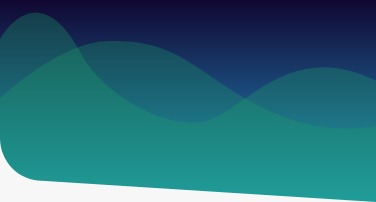
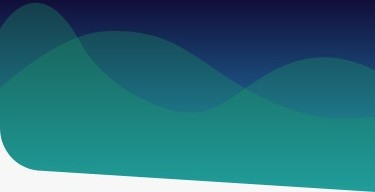
splash screen change

diff --git a/src/screens/ForgotPassword.js b/src/screens/ForgotPassword.js
@@ -15,18 +15,15 @@ import {
   Title,
   useTheme,
 } from 'react-native-paper';
-import Icon from 'react-native-vector-icons/FontAwesome';
-import Ic from 'react-native-vector-icons/MaterialCommunityIcons';
+import Icon from 'react-native-vector-icons/MaterialCommunityIcons';
 import {ProjectLogo} from '../utils/ContentConstant';
 import LinearGradient from 'react-native-linear-gradient';
 import ButtonFilled from '../components/ButtonFilled';
 
-const Signup = ({navigation}) => {
+const ForgotPassword = ({navigation}) => {
   const {colors} = useTheme();
 
-  const [state, setState] = useState({
-    passwordVisible: false,
-  });
+  const [state, setState] = useState({});
 
   const [formValues, setformValues] = useState({
     email: '',
@@ -41,33 +38,20 @@ const Signup = ({navigation}) => {
         <TouchableOpacity
           style={styles.rowView}
           onPress={() => navigation.pop()}>
-          <Ic name="keyboard-backspace" color="white" size={32} />
+          <Icon name="keyboard-backspace" color="white" size={32} />
           <Subheading style={styles.title}> Back</Subheading>
         </TouchableOpacity>
       </View>
       <ScrollView style={styles.view}>
         <Image resizeMode="contain" style={{width: 240}} source={ProjectLogo} />
-        <Title style={{color: '#1DA069'}}>New Customer,</Title>
+        <Title style={{color: '#1DA069'}}>
+          Reset your Medusa Psychic Academy Password
+        </Title>
         <Subheading style={[styles.textGrey, {marginBottom: 20}]}>
-          Sign up to manage your accounts
+          Submit your email address and we'll send you a link to reset your
+          password
         </Subheading>
-        <Subheading style={styles.bottomRow}>
-          Connect with Social Networks
-        </Subheading>
-        <View style={styles.socialIcons}>
-          <TouchableOpacity onPress={() => {}}>
-            <Icon style={styles.icon} name="facebook-square" size={30} />
-          </TouchableOpacity>
-          <TouchableOpacity onPress={() => {}}>
-            <Icon style={styles.icon} name="google" size={30} />
-          </TouchableOpacity>
-        </View>
-        <View style={styles.bottomRow}>
-          <Subheading style={styles.textGrey}>OR</Subheading>
-          <TouchableOpacity onPress={() => {}}>
-            <Subheading style={styles.textGrey}> Create an account</Subheading>
-          </TouchableOpacity>
-        </View>
+
         <TextInput
           style={styles.formControl}
           onChangeText={(email) =>
@@ -82,47 +66,11 @@ const Signup = ({navigation}) => {
         <HelperText type="error" visible={false}>
           {state.error}
         </HelperText>
-        <View style={{flexDirection: 'row'}}>
-          <TextInput
-            style={styles.formControl}
-            onChangeText={(password) =>
-              setformValues({
-                ...formValues,
-                password,
-              })
-            }
-            label="Pasword"
-            secureTextEntry={true}
-            value={formValues.password}
-          />
-          <TouchableOpacity
-            onPress={() => {
-              setState({...state, passwordVisible: true});
-              console.log('icon lcik');
-            }}>
-            <Icon
-              style={{position: 'absolute', zIndex: 300, right: 5, top: 25}}
-              name="eye-slash"
-              color="grey"
-              size={30}
-            />
-          </TouchableOpacity>
-        </View>
-        <HelperText type="error" visible={false}>
-          {state.error}
-        </HelperText>
         <TouchableOpacity style={styles.btn} onPress={() => {}}>
-          <ButtonFilled name="CREATE ACCOUNT" />
+          <ButtonFilled name="RESET PASSWORD" />
         </TouchableOpacity>
-        <Subheading
-          style={[styles.textGrey, {marginVertical: 10, fontSize: 14}]}>
-          You must be at least 18 years old to sign up for Medusa Psychic
-          Academy. By signing up you agree to the Privacy Policy and Terms of
-          Service
-        </Subheading>
-        <TouchableOpacity onPress={() => navigation.navigate('Login')}>
-          <Subheading style={styles.ac}>Already have an account?</Subheading>
-        </TouchableOpacity>
+        <TouchableOpacity
+          onPress={() => navigation.navigate('Login')}></TouchableOpacity>
       </ScrollView>
     </LinearGradient>
   );
@@ -183,4 +131,4 @@ const styles = StyleSheet.create({
   },
 });
 
-export default Signup;
+export default ForgotPassword;

diff --git a/src/screens/AllAdvisors.js b/src/screens/AllAdvisors.js
@@ -60,7 +60,11 @@ const AllAdvisors = ({navigation}) => {
           </TouchableOpacity>
         </Dialog>
       </Portal>
-      <Image style={styles.pattren} source={GRADIENT_PATTREN} />
+      <Image
+        resizeMode="stretch"
+        style={styles.pattren}
+        source={GRADIENT_PATTREN}
+      />
       <View style={styles.headerView}>
         <TouchableOpacity onPress={() => navigation.toggleDrawer()}>
           <Icon name="menu" color="white" size={32} />
@@ -267,7 +271,7 @@ const AllAdvisors = ({navigation}) => {
 const styles = StyleSheet.create({
   container: {
     flex: 1,
-    marginTop: 45,
+    marginTop: 70,
     paddingHorizontal: 25,
     backgroundColor: 'white',
   },
@@ -277,7 +281,7 @@ const styles = StyleSheet.create({
     position: 'absolute',
   },
   searchBar: {
-    marginTop: 60,
+    marginTop: 30,
     marginHorizontal: 25,
   },
   title: {

diff --git a/src/screens/Dashboard.js b/src/screens/Dashboard.js
@@ -56,7 +56,11 @@ const Dashboard = ({navigation}) => {
           </TouchableOpacity>
         </Dialog>
       </Portal>
-      <Image style={styles.pattren} source={GRADIENT_PATTREN} />
+      <Image
+        resizeMode="stretch"
+        style={styles.pattren}
+        source={GRADIENT_PATTREN}
+      />
       <View style={styles.headerView}>
         <TouchableOpacity onPress={() => navigation.toggleDrawer()}>
           <Icon name="menu" color="white" size={32} />
@@ -265,17 +269,16 @@ const Dashboard = ({navigation}) => {
 const styles = StyleSheet.create({
   container: {
     flex: 1,
-    marginTop: 45,
+    marginTop: 70,
     paddingHorizontal: 25,
     backgroundColor: 'white',
   },
   pattren: {
     width: '100%',
-    // height: 250,
     position: 'absolute',
   },
   searchBar: {
-    marginTop: 60,
+    marginTop: 30,
     marginHorizontal: 25,
   },
   title: {

diff --git a/src/navigation/AppNavigation.js b/src/navigation/AppNavigation.js
@@ -2,6 +2,7 @@ import React from 'react';
 import {createStackNavigator} from '@react-navigation/stack';
 import Login from '../screens/Login';
 import Signup from '../screens/Signup';
+import ForgotPassword from '../screens/ForgotPassword';
 import SideDrawer from './SideDrawer';
 
 const Stack = createStackNavigator();
@@ -18,6 +19,11 @@ const AppNavigation = (props) => {
         options={{header: () => null}}
         name="Signup"
         component={Signup}
+      />
+      <Stack.Screen
+        options={{header: () => null}}
+        name="ForgotPassword"
+        component={ForgotPassword}
       />
       <Stack.Screen
         options={{header: () => null}}

diff --git a/src/navigation/SideDrawer.js b/src/navigation/SideDrawer.js
@@ -2,6 +2,7 @@ import React from 'react';
 import {createDrawerNavigator} from '@react-navigation/drawer';
 import HomeStack from './HomeStack';
 import DrawerContent from '../screens/DrawerContent';
+import Dashboard from '../screens/Dashboard';
 const Drawer = createDrawerNavigator();
 
 const sideDrawer = () => {
@@ -13,6 +14,7 @@ const sideDrawer = () => {
       }}
       drawerContent={(props) => <DrawerContent {...props} />}>
       <Drawer.Screen name="Dashboard" component={HomeStack} />
+      <Drawer.Screen name="Home" component={Dashboard} />
     </Drawer.Navigator>
   );
 };

diff --git a/src/screens/Login.js b/src/screens/Login.js
@@ -102,7 +102,9 @@ const Login = ({navigation}) => {
           onPress={() => navigation.navigate('SideDrawer')}>
           <ButtonFilled name="LOGIN" />
         </TouchableOpacity>
-        <TouchableOpacity style={styles.bottomRow} onPress={() => {}}>
+        <TouchableOpacity
+          style={styles.bottomRow}
+          onPress={() => navigation.navigate('ForgotPassword')}>
           <Subheading style={styles.textGrey}>Forgot your Password?</Subheading>
         </TouchableOpacity>
         <View style={styles.bottomRow}>

diff --git a/src/screens/DrawerContent.js b/src/screens/DrawerContent.js
@@ -65,7 +65,9 @@ const SideDrawer = ({navigation}) => {
         </View>
         <View style={styles.line} />
 
-        <TouchableOpacity style={styles.listItemGroup} onPress={() => {}}>
+        <TouchableOpacity
+          style={styles.listItemGroup}
+          onPress={() => navigation.navigate('Home')}>
           <RoundIcon icon={HOME_LOGO} />
           <Subheading style={styles.listItem}>Home</Subheading>
         </TouchableOpacity>

diff --git a/src/screens/Advisor.js b/src/screens/Advisor.js
@@ -315,9 +315,8 @@ const styles = StyleSheet.create({
   headerView: {
     flexDirection: 'row',
     textAlign: 'center',
-    marginTop: 10,
     marginHorizontal: 25,
-    marginVertical: 30,
+    marginVertical: 20,
     justifyContent: 'space-between',
   },
   btnView: {

diff --git a/android/app/src/main/java/com/medusapsychic/MainActivity.java b/android/app/src/main/java/com/medusapsychic/MainActivity.java
@@ -16,7 +16,7 @@ public class MainActivity extends ReactActivity {
 
   @Override
   protected void onCreate(Bundle savedInstanceState) {
-      SplashScreen.show(this);  // here
+      SplashScreen.show(this, R.style.SplashScreenTheme);
       super.onCreate(savedInstanceState);
   }
 }
